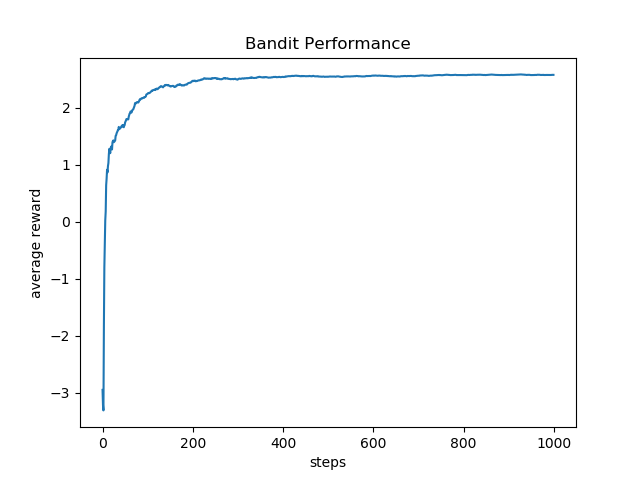
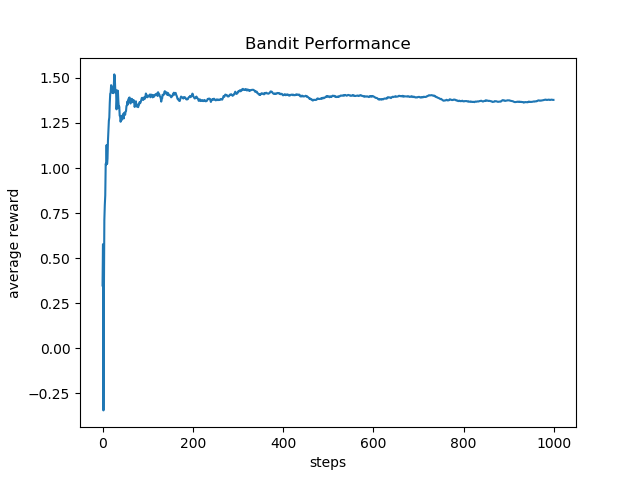
debugged game

diff --git a/algorithms_tabular/bandits.py b/algorithms_tabular/bandits.py
@@ -13,7 +13,7 @@ class Game:
 
     def play(self, arm: int) -> float:
         if arm < self.num_arms - 1:
-            return random.normalvariate(self.arms[self.num_arms], 1)
+            return random.normalvariate(self.arms[arm], 1)
         else:
             return random.normalvariate(self.arms[self.num_arms - 1], 1)
         # force action to always be valid
